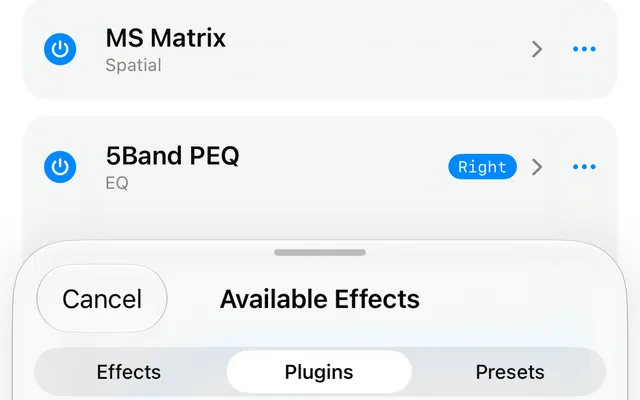
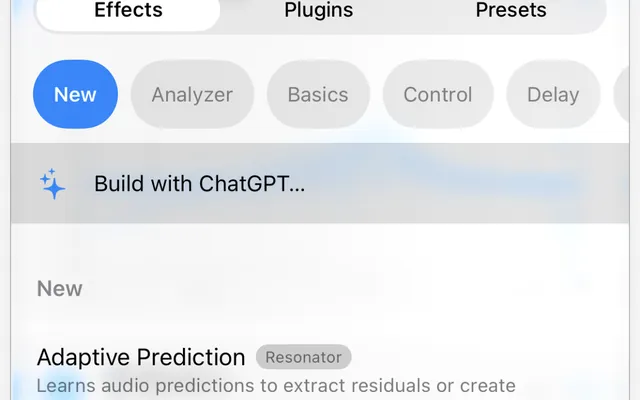
ガイドに専用の OGP を付ける（目次は 6 枚のカード、各ページは題と代表の画面）
- tools/og-guide.mjs が public/og/guide.png と guide-<slug>.png を作る。目次はサイトの /guide と同じ 3 列 2 段のカード、
  各ページは左に Part と題、右にそのページの画面
- page() に ogImage / ogAlt を足し、/guide と /guide/<slug> は自分の絵を指す。ほかは og.png のまま
- ChatGPT のカードの絵を Build with ChatGPT… が写る画面にした

Claude-Session: https://claude.ai/code/session_01M5vEiU8oRFocfw8GbWscdS

diff --git a/site/src/worker.js b/site/src/worker.js
@@ -446,6 +446,7 @@ const ldScript = (data) =>
 async function page({
   title, body, status = 200, script = null, banner = null,
   description = TEXT.description, canonical = null, width = "", ld = null, noindex = false,
+  ogImage = OG_IMAGE, ogAlt = OG_ALT,
 }) {
   const t = TEXT;
   const bannerContent = banner ? bannerPrefix + banner : `app-id=${APP_STORE_ID}`;
@@ -465,17 +466,17 @@ ${noindex ? `<meta name="robots" content="noindex, follow">
 <meta property="og:locale" content="en_US">
 <meta property="og:title" content="${esc(title)}">
 <meta property="og:description" content="${esc(description)}">
-${canonical ? `<meta property="og:url" content="${esc(canonical)}">\n` : ""}<meta property="og:image" content="${OG_IMAGE}">
+${canonical ? `<meta property="og:url" content="${esc(canonical)}">\n` : ""}<meta property="og:image" content="${ogImage}">
 <meta property="og:image:type" content="image/png">
 <meta property="og:image:width" content="1200">
 <meta property="og:image:height" content="630">
-<meta property="og:image:alt" content="${OG_ALT}">
+<meta property="og:image:alt" content="${esc(ogAlt)}">
 <meta name="twitter:card" content="summary_large_image">
 <meta name="twitter:site" content="@${TWITTER.split("/").pop()}">
 <meta name="twitter:title" content="${esc(title)}">
 <meta name="twitter:description" content="${esc(description)}">
-<meta name="twitter:image" content="${OG_IMAGE}">
-<meta name="twitter:image:alt" content="${OG_ALT}">
+<meta name="twitter:image" content="${ogImage}">
+<meta name="twitter:image:alt" content="${esc(ogAlt)}">
 <meta name="theme-color" content="#fafafa" media="(prefers-color-scheme: light)">
 <meta name="theme-color" content="#0d1117" media="(prefers-color-scheme: dark)">
 <link rel="icon" type="image/png" href="/icon.png">
@@ -709,7 +710,8 @@ function guideIndex() {
 <ol class="cards">
 ${guideCards()}
 </ol>`;
-  return page({ title: `${g.title} — EffectDeck`, body, canonical: `${ORIGIN}/guide`, description: g.description, width: "wide" });
+  return page({ title: `${g.title} — EffectDeck`, body, canonical: `${ORIGIN}/guide`, description: g.description, width: "wide",
+    ogImage: `${ORIGIN}/og/guide.png`, ogAlt: "EffectDeck Guide, with three screens of the app" });
 }
 
 // /guide/<slug>。前へ／次へは GUIDE.pages の並び。
@@ -733,6 +735,7 @@ ${LIGHTBOX}`;
   return page({
     title: `${g.title} — EffectDeck`, body, canonical: `${ORIGIN}/guide/${g.slug}`, description: g.description,
     script: LIGHTBOX_JS,
+    ogImage: `${ORIGIN}/og/guide-${g.slug}.png`, ogAlt: `EffectDeck Guide: ${g.title}`,
   });
 }
 
